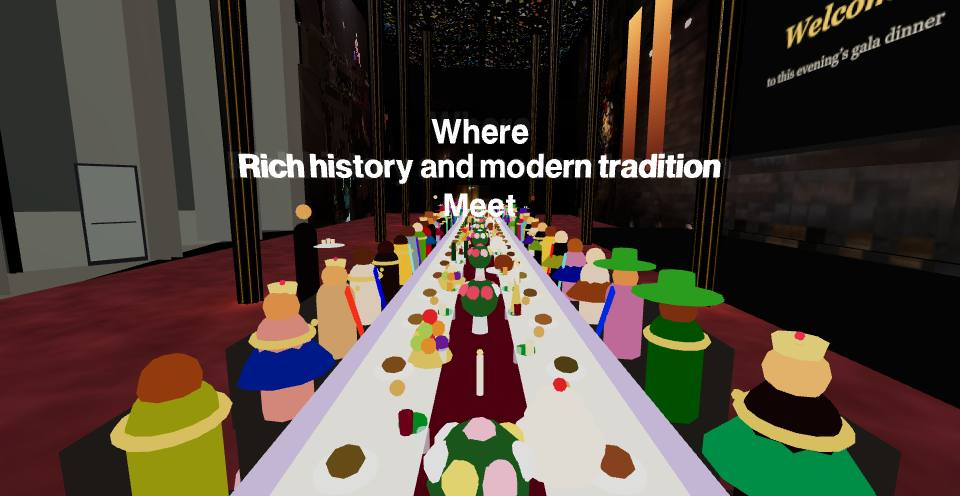
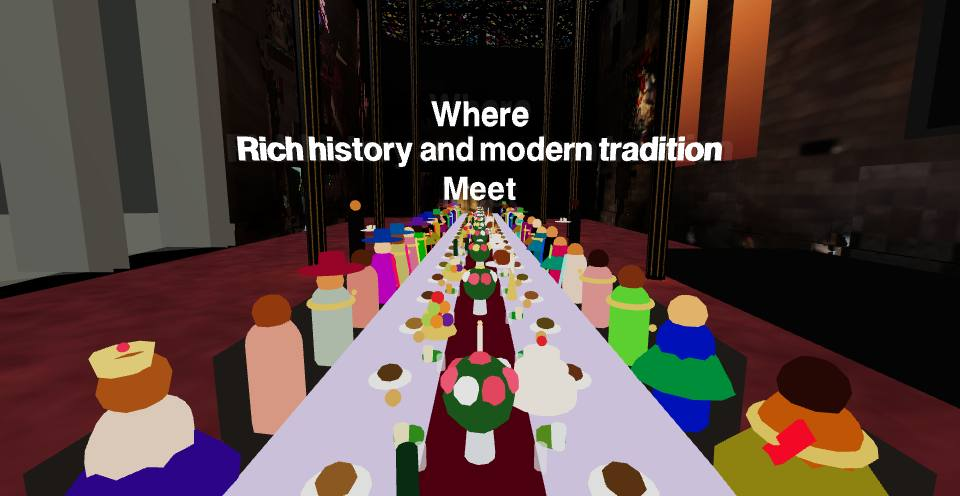
Shot 1 (Lloyd's note, V7) opens A special space / In Melbourne's heart on two rows. The banquet (V8): the whole cloth light purple, no white top; its lines sit a touch higher on a wide picture so Meet clears the table

diff --git a/index.html b/index.html
@@ -2128,7 +2128,7 @@ function buildBanquet(ctx){
  const q=new THREE.Quaternion().setFromRotationMatrix(new THREE.Matrix4().makeBasis(EVENT.N.u.clone(),new THREE.Vector3(0,1,0),EVENT.N.inRoom.clone().negate()));
  const put=(mesh,u,y,dd)=>{ const p=eventPoint(u,0,dd); mesh.position.set(p.x,y0+y,p.z); mesh.quaternion.copy(q); mesh.frustumCulled=false; eventGroup.add(mesh); return mesh; };
  // (Lloyd, V7) the white top overhangs the purple skirt, which stops 2 cm under it: no shared face to fight
- put(new THREE.Mesh(new THREE.BoxGeometry(L+0.36,0.04,W+0.36),eventMat(0xe9e4d6,0xf6f2e8)),uc,TOP-0.02,d);
+ put(new THREE.Mesh(new THREE.BoxGeometry(L+0.36,0.04,W+0.36),eventMat(0xc4b3e6,0xe0d4f5)),uc,TOP-0.02,d);   /* the top light purple too, no white cloth (Lloyd, V8) */
  put(new THREE.Mesh(new THREE.BoxGeometry(L+0.3,TOP-0.12,W+0.3),eventMat(0xb9a6dd,0xd6c8f0)),uc,(TOP-0.12)/2+0.08,d);   /* the cloth's sides light purple (Lloyd, V6) */
  put(new THREE.Mesh(new THREE.BoxGeometry(L+0.32,0.012,0.5),eventMat(0x5a1220,0x7a1c30)),uc,TOP+0.006,d);
  put(new THREE.Mesh(new THREE.BoxGeometry(L+0.34,0.06,W+0.34),eventMat(0xb08a2e,0xd4aa45)),uc,0.12,d);
@@ -3599,7 +3599,7 @@ function finaleStep(s){ if(!finale)finaleStart(); if(!finale)return; const F=fin
 // line splits off the glint word, ' / ' stacks a second row under the first, and a row in *...*
 // is stained glass ('*Gandel Hall* / Is brought to |light'). finale is the year under the triangle,
 // sculpture the tag over the marks (both built once, so they take the file as it was at load).
-const TOUR_TEXT={"rainbow-columns":[["A special space",0,4.4],["Carefully crafted over decades",4.4,8.8],["*Gandel Hall* / Is brought to |light",8.8,13.2]],"dinner":[["A place for community",5.5,11]],"banquet":[["~Where / ~Rich history and modern tradition / ~Meet",2.5,13.5]],"party":[["A place to have fun!",2,8]],"party-celebrate":[["and celebrate amongst friends",2.3,8.5]],"standing":[["Somewhere for people to share their ideas",2,8]],"wedding-aisle":[["and to celebrate love",2,8]],"finale":[["",0,0]],"finale-top":[["GANDEL HALL",0,0]],"sculpture":[["BROUGHT TO LIGHT BY",0,0]]};
+const TOUR_TEXT={"rainbow-columns":[["A special space / In Melbourne's heart",0,4.4],["Carefully crafted over decades",4.4,8.8],["*Gandel Hall* / Is brought to |light",8.8,13.2]],"dinner":[["A place for community to come together",5.5,11]],"banquet":[["~Where / ~Rich history and modern tradition / ~Meet",2.5,13.5]],"party":[["A place to have fun!",2,8]],"party-celebrate":[["and celebrate amongst friends",2.3,8.5]],"standing":[["Somewhere for people to share their ideas",2,8]],"wedding-aisle":[["and to celebrate love",2,8]],"finale":[["",0,0]],"finale-top":[["GANDEL HALL",0,0]],"sculpture":[["BROUGHT TO LIGHT BY",0,0]]};
 fetch('storyboard/titles.json?v='+Date.now()).then(r=>r.ok?r.json():null).then(j=>{ if(j)Object.assign(TOUR_TEXT,j); }).catch(()=>{});
 const TX=k=>(TOUR_TEXT[k]||[]).map(([t,a,b])=>[t,a,b]);
 const TX1=(k,d)=>((TOUR_TEXT[k]||[])[0]||[d])[0]||d;
@@ -3643,7 +3643,7 @@ function tourSegments(){ const uM=EVENT.wallLen/2, c=EVENT.cols;
     veil(smooth(Math.max(0,Math.min(1,(s-11.5)/1.5)))); if(court)court.visible=false; }},
   // (Lloyd's storyboard, shot 3) the banquet: fade in, a slow travel down the table at 1.9 m
   // over the guests' heads, looking along it, fade out
-  {mode:'banquet',dur:16, cam:k=>{ const s=k*16, q=smooth(k), u=uM-18+30*q; poseAt(EP(u,1.9,7.55),EP(u+7,0.9,7.55)); titlesNow(s,TX('banquet'));
+  {mode:'banquet',dur:16, cam:k=>{ const s=k*16, q=smooth(k), u=uM-18+30*q; poseAt(EP(u,1.9,7.55),EP(u+7,0.9,7.55)); titlesNow(s,TX('banquet'),cam.aspect>1?0.6:0.35);   /* a touch higher on a wide picture, so Meet clears the table (Lloyd, V8) */
     veil(Math.max(1-smooth(Math.min(1,s/1.5)),smooth(Math.max(0,(s-14.5)/1.5)))); }},
   // (Lloyd's notes) the party: from the floor at the hall's end, round the room on a long curve
   // and rising all the way, to end high up facing the crowd in the middle; never a blank wall

diff --git a/tour-storyboard.md b/tour-storyboard.md
@@ -125,7 +125,12 @@ V5 (sent 01/09/2026 23:26:44):
 V6 (sent 01/09/2026 23:37:55):
 [shot 2, 4.5 s] the bows for the violins should move across the violins back and forth. not in and out of the violins, clipping through them
 
-V7 (draft):
+V7 (sent 01/09/2026 23:48:50):
+[shot 2, 9.5 s] 
+A place for community (line break)
+to come together
+
+V8 (draft):
 
 
 ---
@@ -177,8 +182,12 @@ V6 (sent 01/09/2026 23:29:11):
 V7 (sent 01/09/2026 23:36:42):
 [shot 3, 4.4 s] I think the white tablecloth is still there because it looks like it's clipping through the purple tablecloth
 
-V8 (draft):
+V8 (sent 01/09/2026 23:47:53):
 [shot 3, 11.4 s] the text on desktop should be just a little bit higher during this scene because the word "meet" is hard to read because it isn't contrasting well against the scene
+[shot 3, 8.0 s] also, no white table cloth - use light purple
+
+V9 (draft):
+
 
 ---
 
